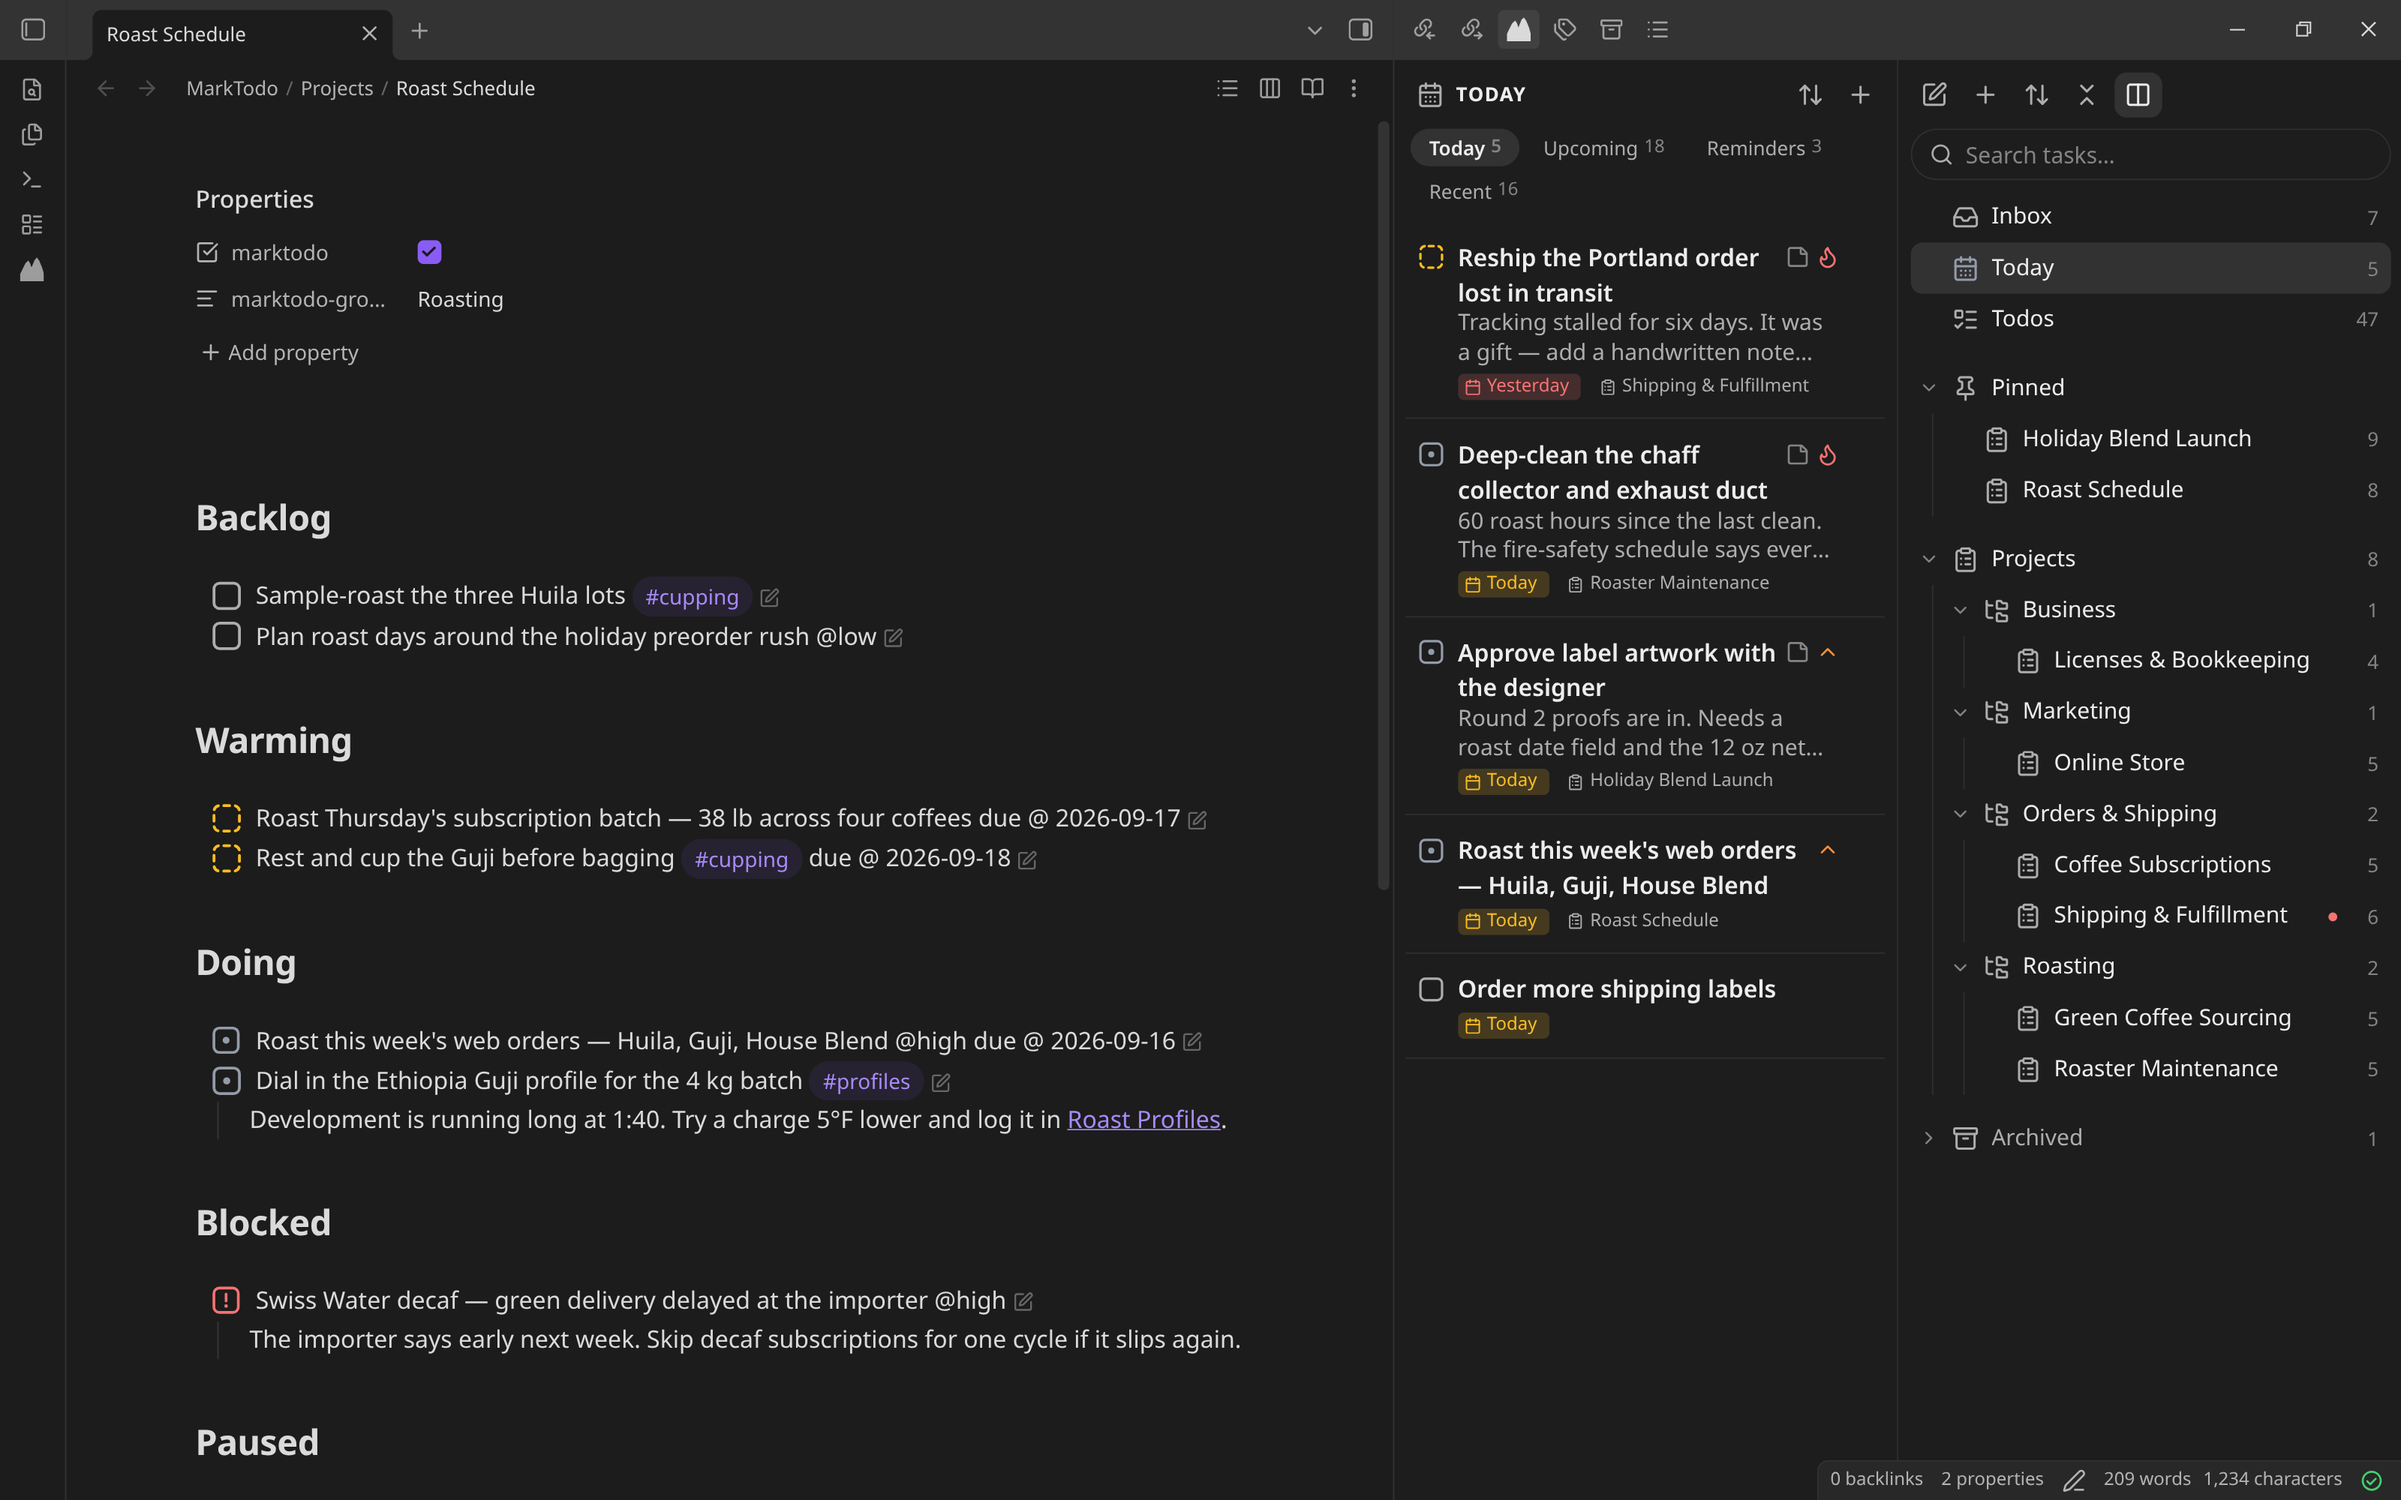
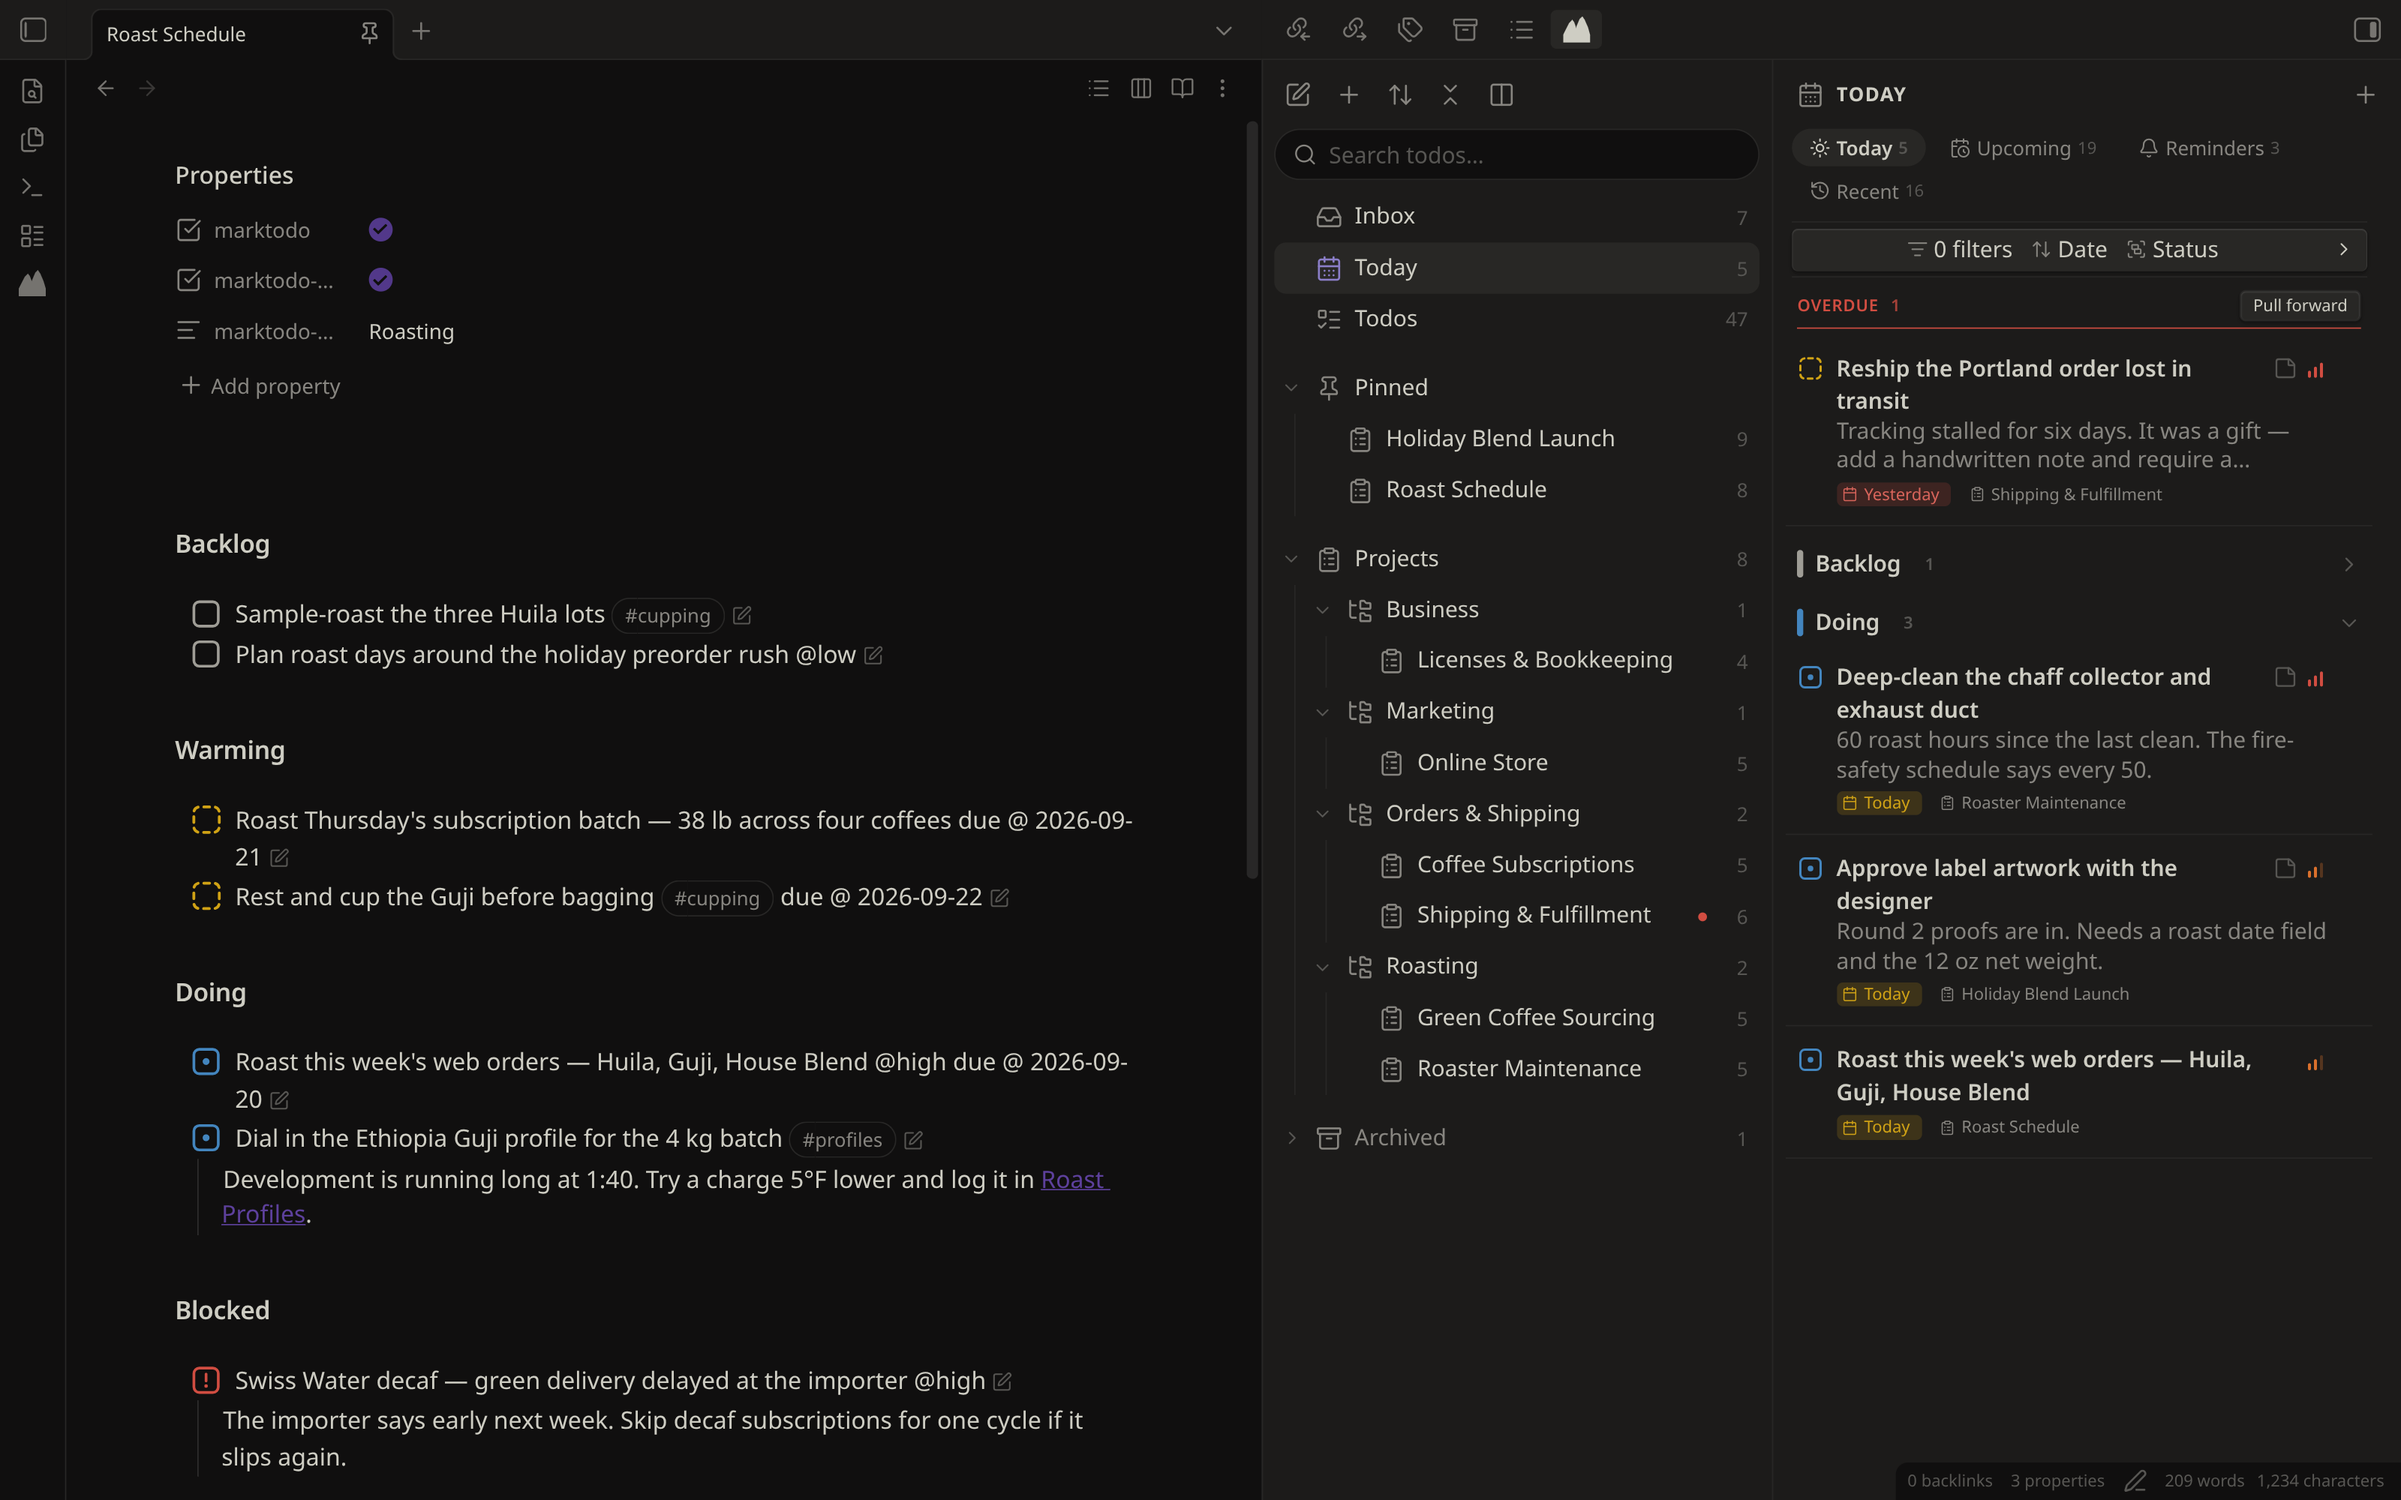
new screenshots

diff --git a/README.md b/README.md
@@ -51,8 +51,19 @@ Enable kanban drag on mobile to move cards between columns with a thumb.
 The app is not this plugin on a smaller screen. It puts your projects, your
 list, and the todo you're in in three panes side by side, and slides between
 them rather than stacking full-screen views you have to press Back out of — so
-the list you were reading is still there when you finish with a todo. The app
-is in closed testing on Google Play.
+the list you were reading is still there when you finish with a todo.
+
+![The MarkTodo Android app: projects down the left, a project's todos in the middle, and the open todo's editor on the right, all three panes visible at once](docs/screenshots/app-three-panes.png)
+
+That is one screen, not three. Your projects, the list you are working, and the
+todo you have open are all in view together — pick a project on the left and the
+middle updates; open a todo and the editor slides in beside the list rather than
+over it. On a phone the panes are one swipe apart, so the same layout works with
+one thumb. Everything in that shot is plain Markdown in an Obsidian vault, read
+and written under the same grammar this plugin uses.
+
+The app is in closed testing on
+[Google Play](https://play.google.com/store/apps/details?id=com.marktodo.app).
 
 ## The format
 
